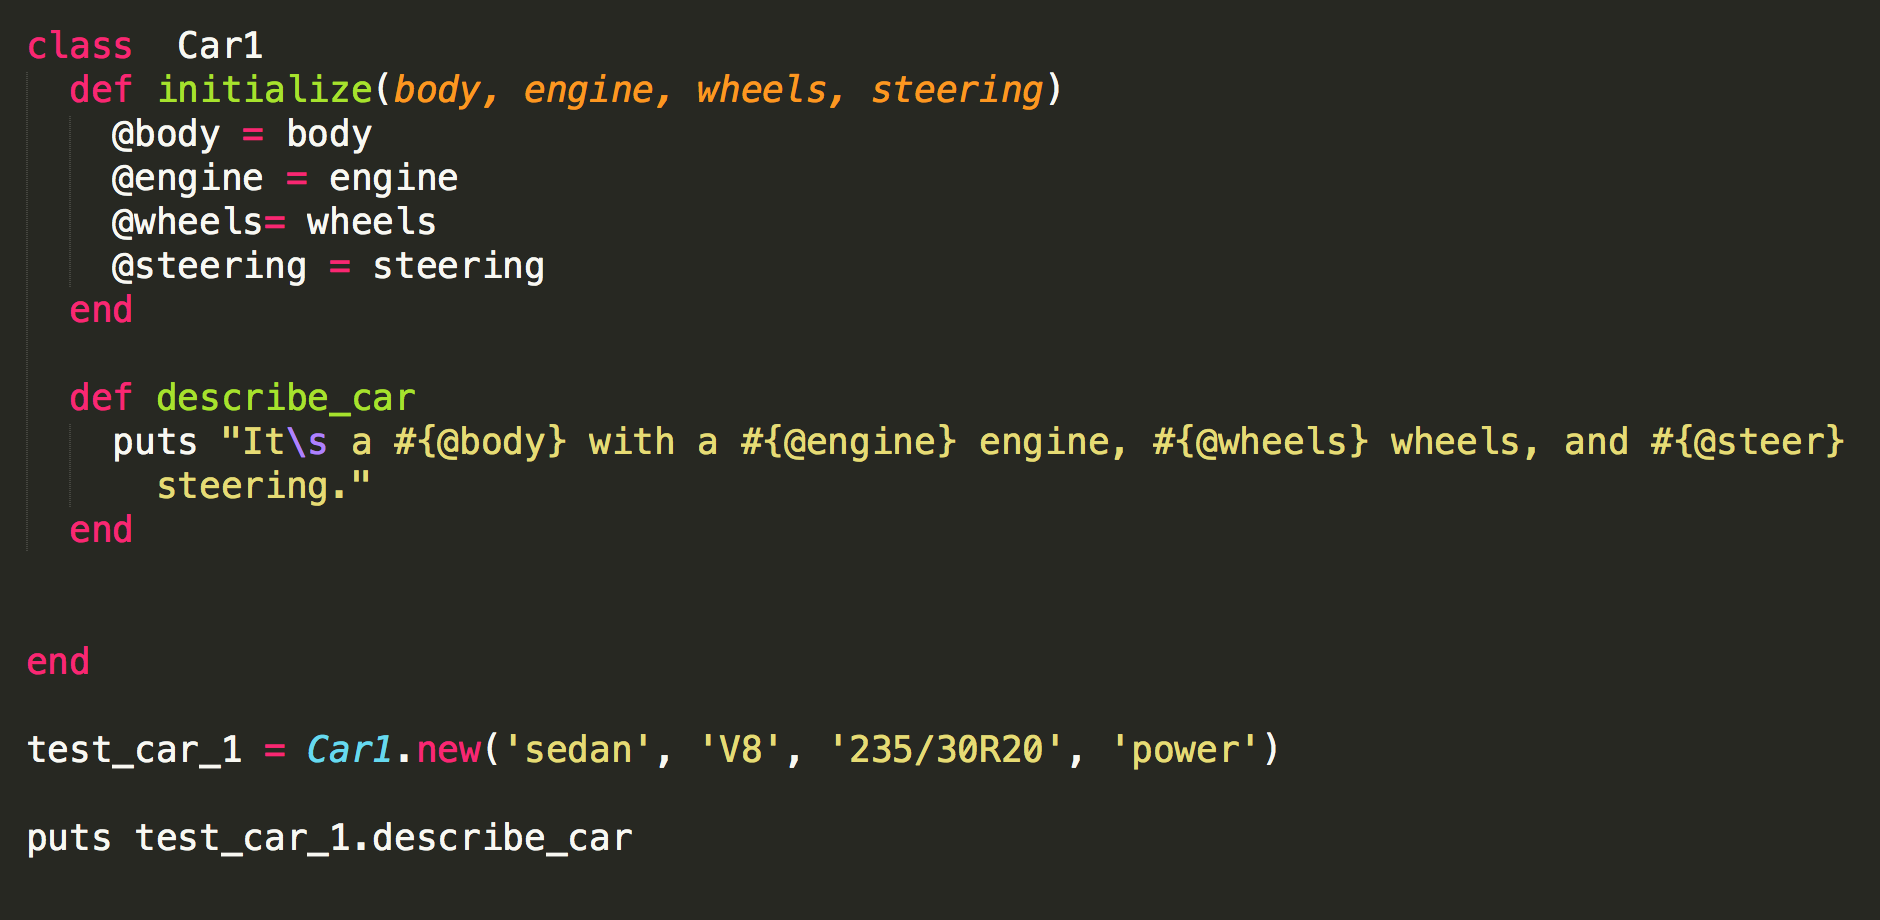
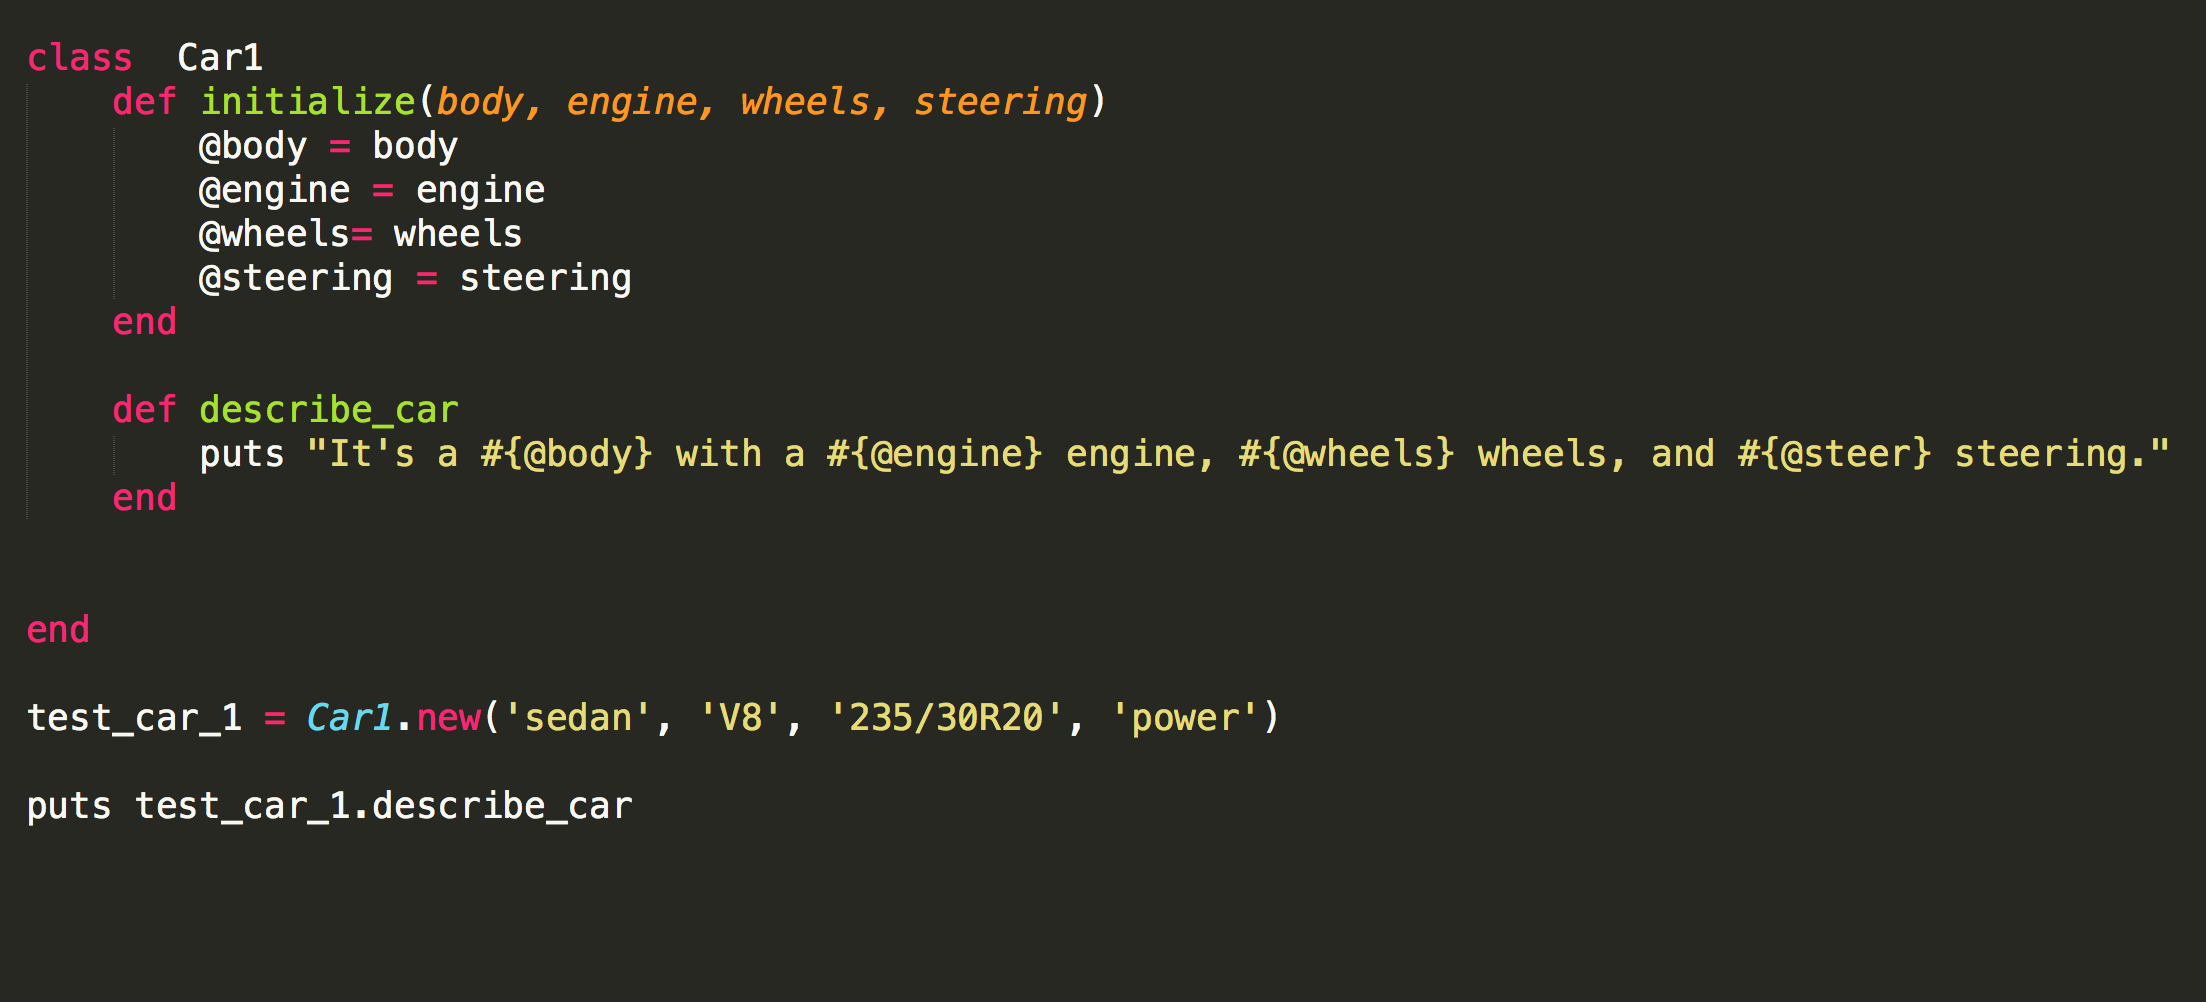
update blog and css

diff --git a/blog/t5-ruby-classes.html b/blog/t5-ruby-classes.html
@@ -8,8 +8,6 @@
 <body>
 	<header>
 		<h1>Cora Hays-Magan</h1>
-		<a href="https://twitter.com/CorainChicago"><img class ='icon' src="../imgs/Twitter.png"></a>
-		<a href="https://github.com/CorainChicago"><img class ='icon' src="../imgs/Github.png"></a>
 		<img id="profile" src="../imgs/profile.jpg">
 		<nav>
 	      <h2><a href="http://corainchicago.github.io/">Home</a><h2>
@@ -24,7 +22,7 @@
 	</section>
 <section>
 	  <h1>Ruby Classes with Cars</h1>
-	  <h2>It's a long word for picking up kittens.</h2>
+	  <h2>The right one for the right job</h2>
 	  <h4>August 21, 2015</h4>
 	 </section> 
 	<section>
@@ -36,16 +34,21 @@
 
 <img class="code" src="../imgs/Car1.png">
 
+<p>The output will be:  It's a red with a Toyota engine, Camry wheels, and the licence plate number is WJE 910.</p>
+
 <p>This is a car, but if I handed you keys and said to find it in a full lot and drive it for the day, the object would be of little help.  The body will give me a shape to look for and the number of seats can eliminate a few cars, but having wheels and an engine do not help in this case. </p>
 
 <p>So lets make another car class:</p>
 
 <img class="code" src="../imgs/Car2.png">
 
+<p>The output will be: It a sedan with a V8 engine, 235/30R20 wheels, and  steering.</p>
+
 <p>With this car class, I can easily find my car in a full lot, so it must be the better class...</p>
 
 
 <p>...No, each of these classes for car serve a different purpose.  Car1 is more technical and less visual in it's description.  It will help if the application is for a mechanic but not for an app like Lyft or Uber. Well, maybe not Uber as it fails to tell you the color of the car (my pet peeve).</p>
+</section>
 <footer>
 		<img scr="#">
 		<p>Contact Me: I code, I pair, and I share</p>

diff --git a/about.html b/about.html
@@ -23,10 +23,8 @@
 	</section>
 <section class="me">
 		<h3><a name="me">About Me</a></h3>
-		<p>I'm a transplant to Chicago from Nashville, TN by way of<a href="http://findingthecabana.blogspot.com/2010/11/liberian-cherries.html">Liberia</a>.  Nashville raised me, I went wandering through the world and finally Liberia reset my direct.  Ending up in Chicago fit me well. <p/>
-		<p>A learner and a talker, I  find new adventures all the time.  </p>	
-
-			, finally back to the US into non-profit program development, and finally to the gateway languages of HTML/CSS, Javascript, and then Ruby and Rails.</p>  
+		<p>I'm a transplant to Chicago from Nashville, TN by way of<a href="http://findingthecabana.blogspot.com/2010/11/liberian-cherries.html">Liberia</a>.Nashville raised me, I went wandering through the world and finally Liberia reset my direct.  Ending up in Chicago fit me well. <p/>
+		<p>A learner and a talker, I  find new adventures all the time and keep looking for a challenge. Finally, I found my to gateway language into programming in  HTML/CSS.  Then I found  Javascript and Ruby ... and  then Rails.</p>  
 		<p> How can anyone trek back to an office job after getting to Ruby and Rails?  Not me, so a hop, skip, a few <a href="https://www.girldevelopit.com/">Girl Develop It</a> classes, two amazing coding friends, and some meetups later, I found myself with a <a href="http://www.yeswecode.org/">#yeswecode</a> scholarship to <a href="http://devbootcamp.com/">Dev Bootcamp</a>.</p>	
 </section>	
 

diff --git a/index.html b/index.html
@@ -20,6 +20,7 @@
 	</section>
 	<section class="blog_posts">
 		<h3><a name="writing">Writing</a></h3>
+		<p><a href="http://corainchicago.github.io/blog/t5-ruby-classes.html">Ruby Classes with Cars</a></p>
 		<p><a href="http://corainchicago.github.io/blog/c5-feedback.html">Pairing and Feedback</a></p>
 		<p><a href="http://corainchicago.github.io/blog/c4-tech-issues.html">Numbers and Steps (and a Video Too)</a></p>
 		<p><a href="http://corainchicago.github.io/blog/t4-enumerable-methods.html">Enumerables with Kittens</a></p>

diff --git a/default.css b/default.css
@@ -10,10 +10,10 @@ header h1{
 
 #profile{
 	position: absolute;
-	top: 10%;
+	top: 3%;
 	right:7%;
 	float: left;
-	height: 30em;
+	height: 25em;
 	border-radius: 40%;
 }
 
@@ -39,9 +39,13 @@ header h1{
 	border-radius: 0%;
 }
 
+nav{
+	margin-left: 6%;
+}
+
 nav h2{
 	display: inline-block;
-	margin-left: 90px;
+	margin-right: 3%;
 	top: 76px;
 }
 

diff --git a/blog/test.rb b/blog/test.rb
@@ -7,10 +7,8 @@ class  Car2
 	end 
 
 	def describe_car
-		puts "It\s a #{@color} with a #{@make} engine, #{@model} wheels, and the licence plate number is #{@licence_plate}."
-
+		puts "It's a #{@color} with a #{@make} engine, #{@model} wheels, and the licence plate number is #{@licence_plate}."
 	end
-
 end
 test_car_2 = Car2.new('red', 'Toyota', 'Camry', 'WJE 910')
 puts test_car_2.describe_car
@@ -52,7 +50,7 @@ class  Car1
 	end
 
 	def describe_car
-		puts "It\s a #{@body} with a #{@engine} engine, #{@wheels} wheels, and #{@steer} steering."
+		puts "It's a #{@body} with a #{@engine} engine, #{@wheels} wheels, and #{@steer} steering."
 	end
 	
 	
@@ -61,3 +59,7 @@ end
 test_car_1 = Car1.new('sedan', 'V8', '235/30R20', 'power')
 
 puts test_car_1.describe_car
+
+
+
+
